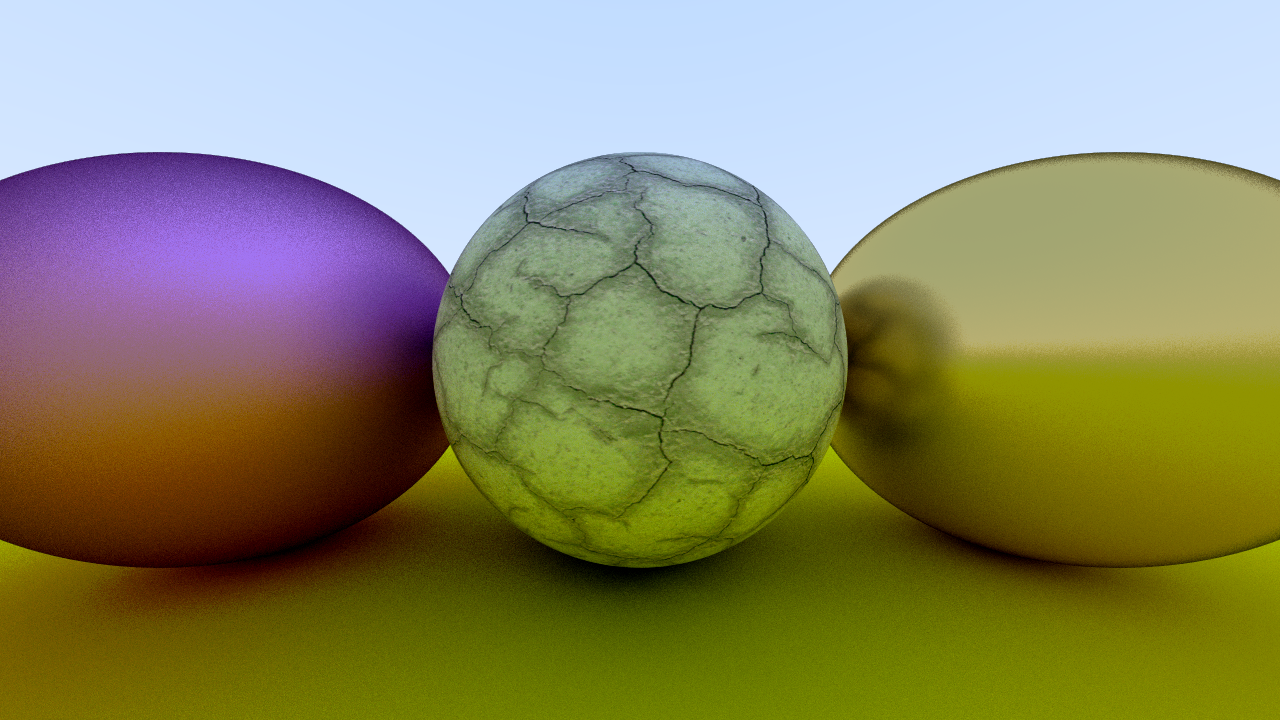
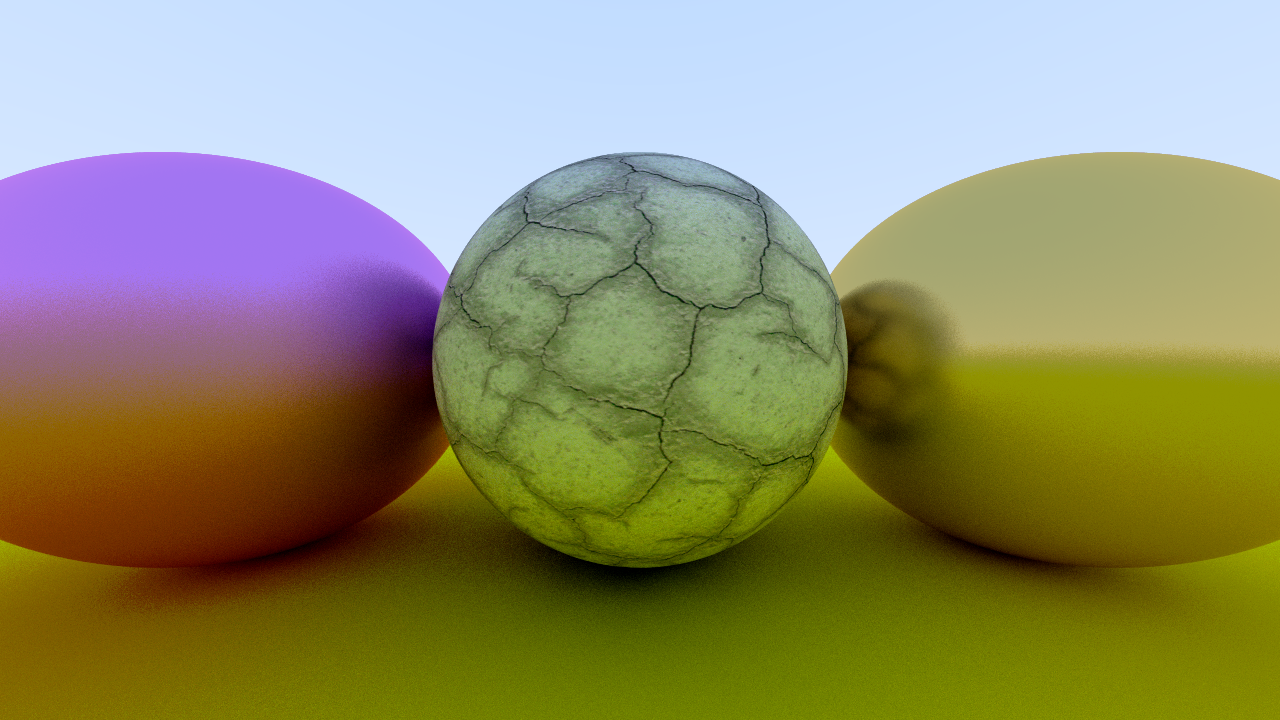
bug fix + replace image

diff --git a/sources/main.cpp b/sources/main.cpp
@@ -53,6 +53,7 @@ vec3 Color(const Ray &r, World *world, int depth, unsigned long &rayCount)
     vec3 dir = normalize(r.GetDirection());
     float t = 0.5f*(dir.y + 1.0);
     return (1.0f - t)*vec3(1.0,1.0,1.0) + t*vec3(0.5f,0.7f,1.0f);
+    //return vec3(1,1,1);
 }
 
 
@@ -209,9 +210,9 @@ int main()
     std::shared_ptr<Lambertian> l = std::make_shared<Lambertian>(vec3(1.0,1.0,1.0));
     l->texture = std::make_shared<Texture>("Resources/ground.jpg");
     std::unique_ptr<Hitable> sphere = std::make_unique<Sphere>(vec3(0,0,-1),0.5f, l);
-    std::unique_ptr<Hitable> sphere2 = std::make_unique<Sphere>(vec3(0,-100.5f,-1),100.0f, std::make_shared<Lambertian>(vec3(0.8,0.8,0.0)));
-    std::unique_ptr<Hitable> sphere3 = std::make_unique<Sphere>(vec3(1,0,-1),0.5f, std::make_shared<Metal>(vec3(0.8,0.6,0.2),0.3f));
-    std::unique_ptr<Hitable> sphere4 = std::make_unique<Sphere>(vec3(-1,0,-1),0.5f, std::make_shared<Metal>(vec3(0.8,0.3,0.9),0.9f));
+        std::unique_ptr<Hitable> sphere2 = std::make_unique<Sphere>(vec3(0,-100.5f,-1),100.0f, std::make_shared<Lambertian>(vec3(0.8,0.8,0.0)));
+        std::unique_ptr<Hitable> sphere3 = std::make_unique<Sphere>(vec3(1,0,-1),0.5f, std::make_shared<Metal>(vec3(0.8,0.6,0.2),0.3f));
+        std::unique_ptr<Hitable> sphere4 = std::make_unique<Sphere>(vec3(-1,0,-1),0.5f, std::make_shared<Metal>(vec3(0.8,0.3,0.9),0.9f));
     //std::unique_ptr<Hitable> sphere5 = std::make_unique<Sphere>(vec3(-1,0,-1),-0.45f, std::make_shared<Dielectric>(1.5f));
     //std::unique_ptr<Hitable> sphere6 = std::make_unique<Sphere>(vec3(-1,0,-1.5),0.5f, std::make_shared<Lambertian>(vec3(0.8,0.3,0.3)));
 

diff --git a/include/material.h b/include/material.h
@@ -53,7 +53,7 @@ public:
     {
         fm::math::vec3 reflect = reflectance(normalize(ray.GetDirection()), record.normal);
         attenuation = albedo;
-        scattered = Ray(record.p, reflect + fFuzz*fm::math::randomInUnitSphere());
+        scattered = Ray(record.p, reflect + fFuzz*fm::math::randomInUnitSphere()*dot(reflect, record.normal));
         return dot(scattered.GetDirection(), record.normal) > 0;
     }
     fm::math::vec3 albedo;
